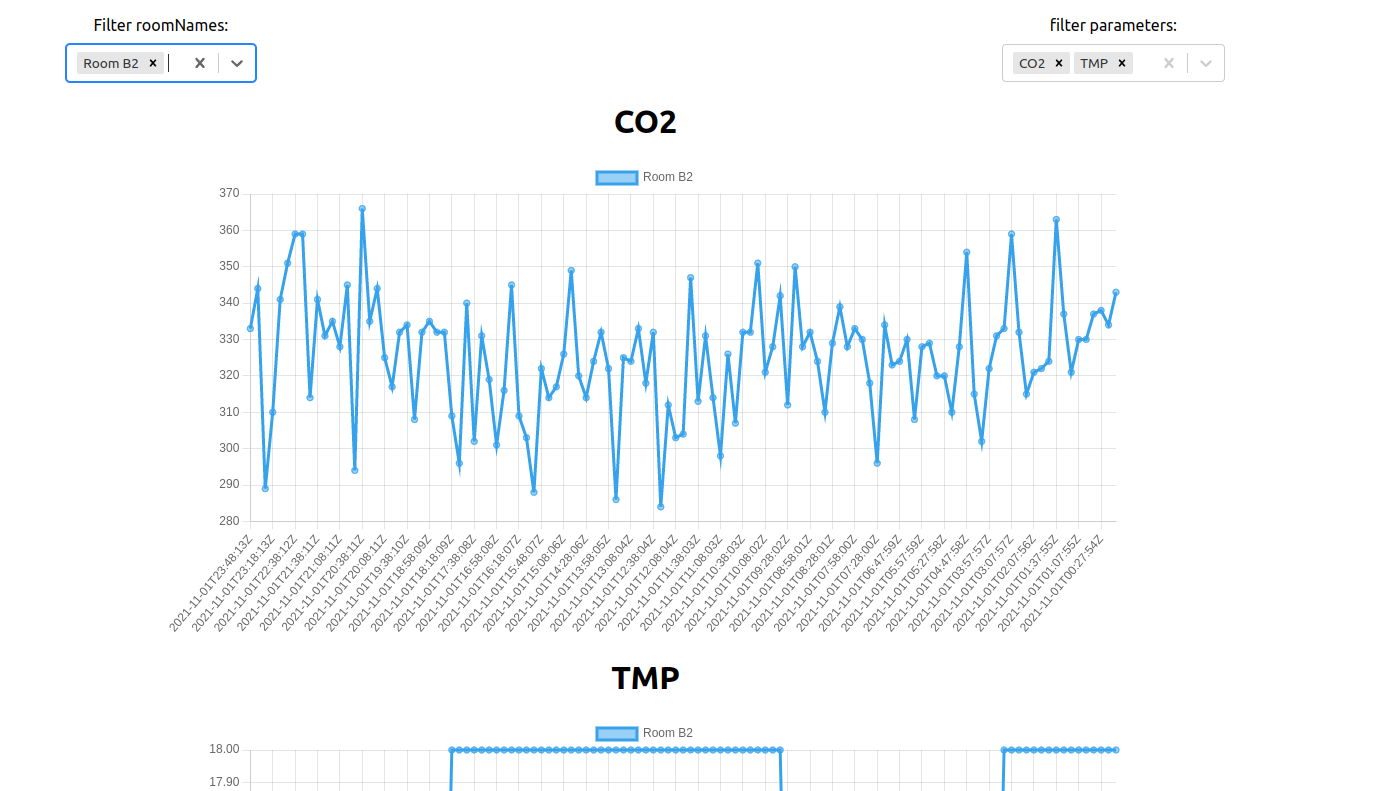
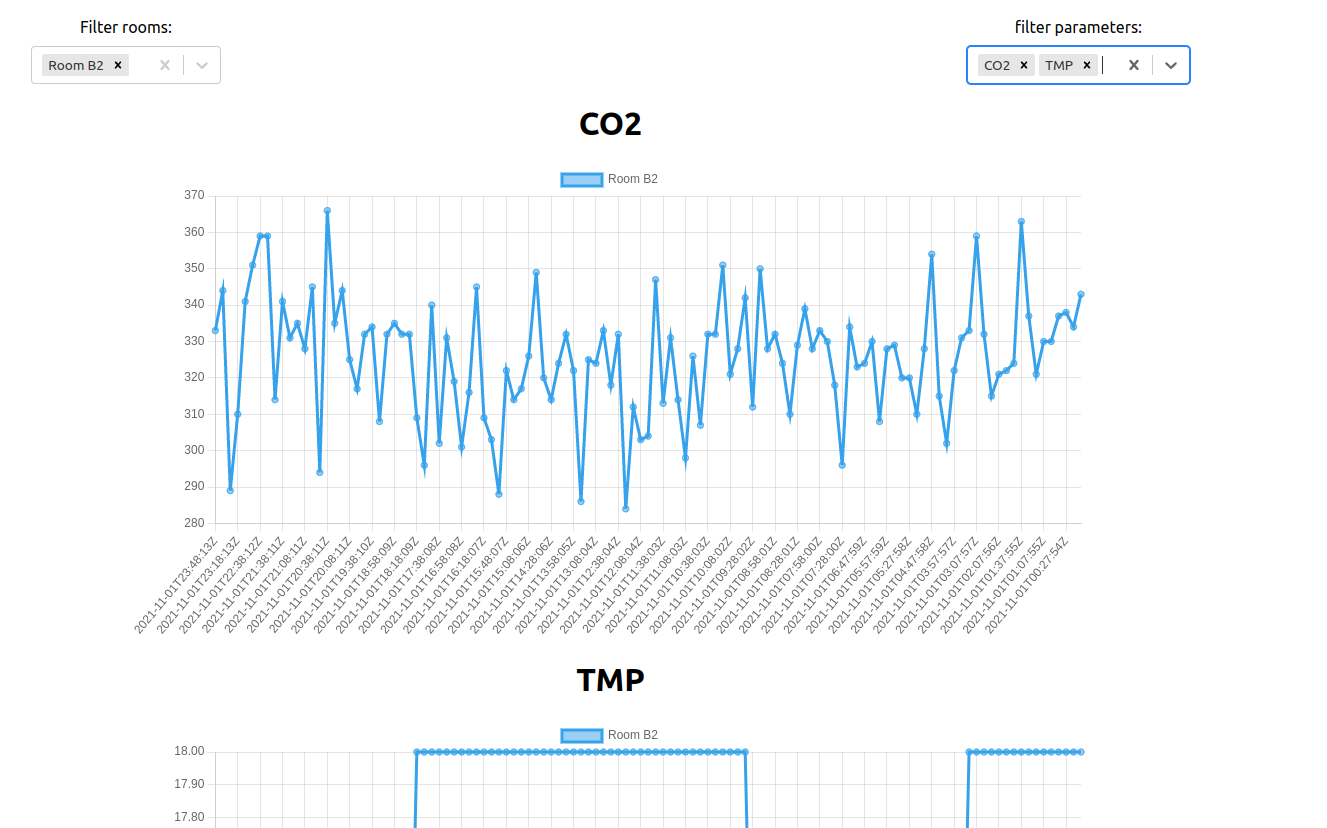
change roomname filter label

diff --git a/frontend/src/App.js b/frontend/src/App.js
@@ -101,7 +101,7 @@ function App() {
     <div className="App">
       <div className='filters-container'>
         <div className='select-container'>
-          <label htmlFor="room-select">Filter roomNames:</label>
+          <label htmlFor="room-select">Filter rooms:</label>
           <Select
             options={ROOMS.map((type) => ({value: type, label: type}))}
             isMulti
